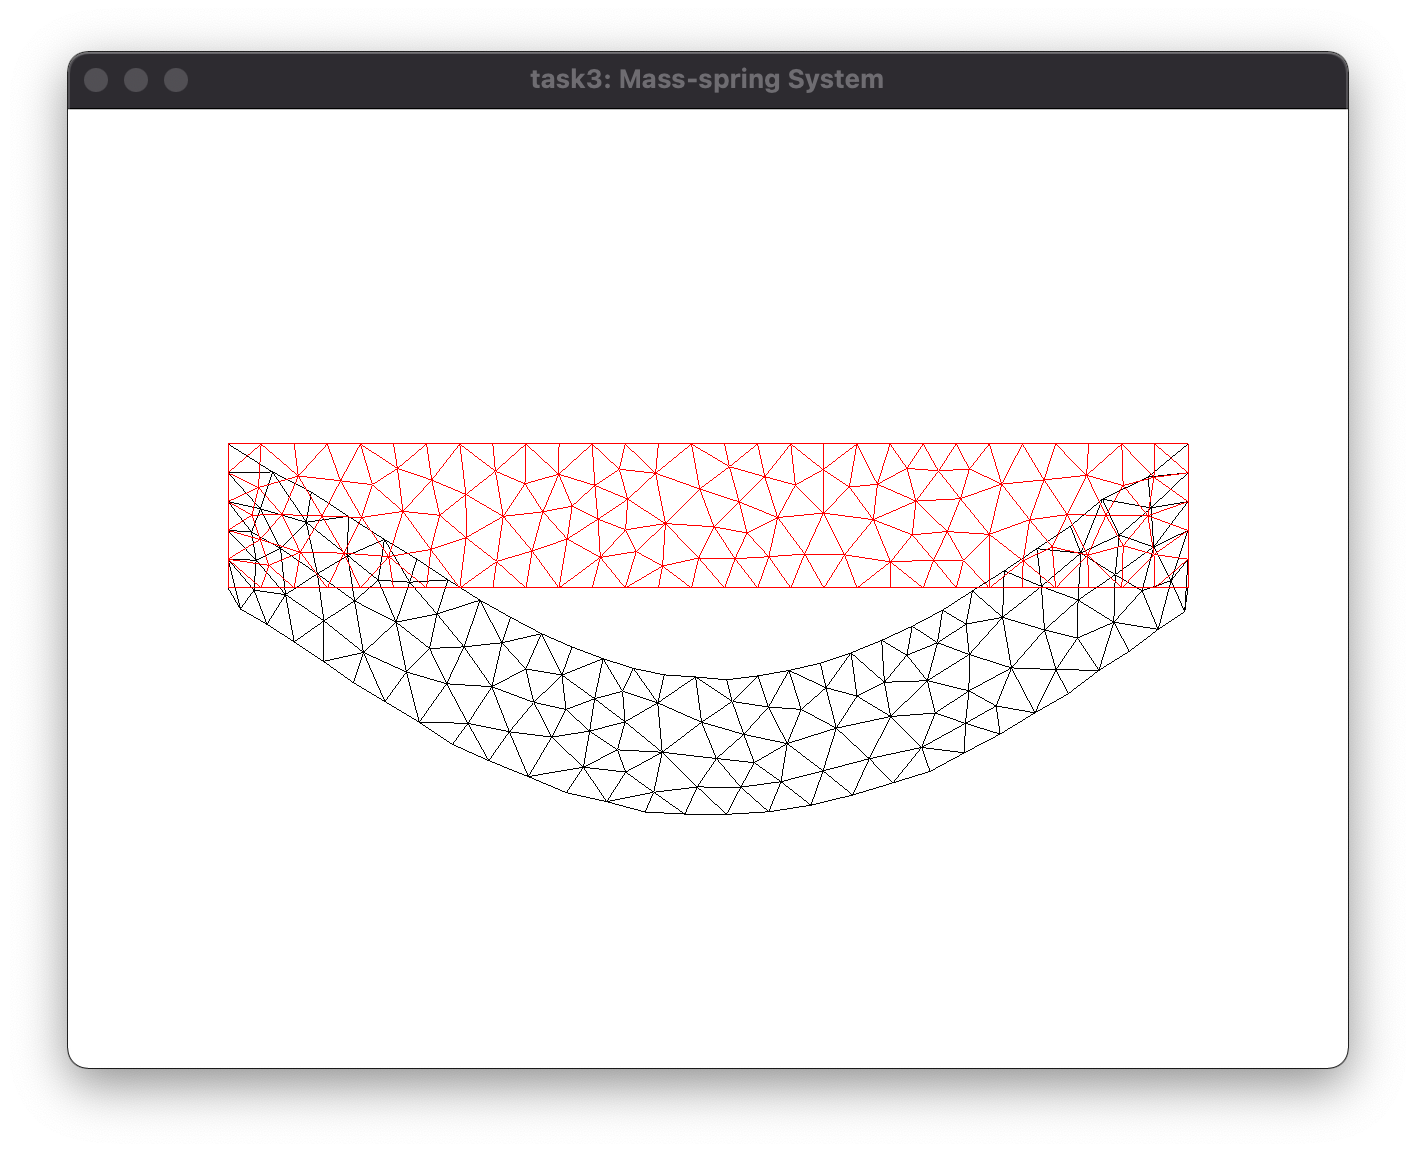
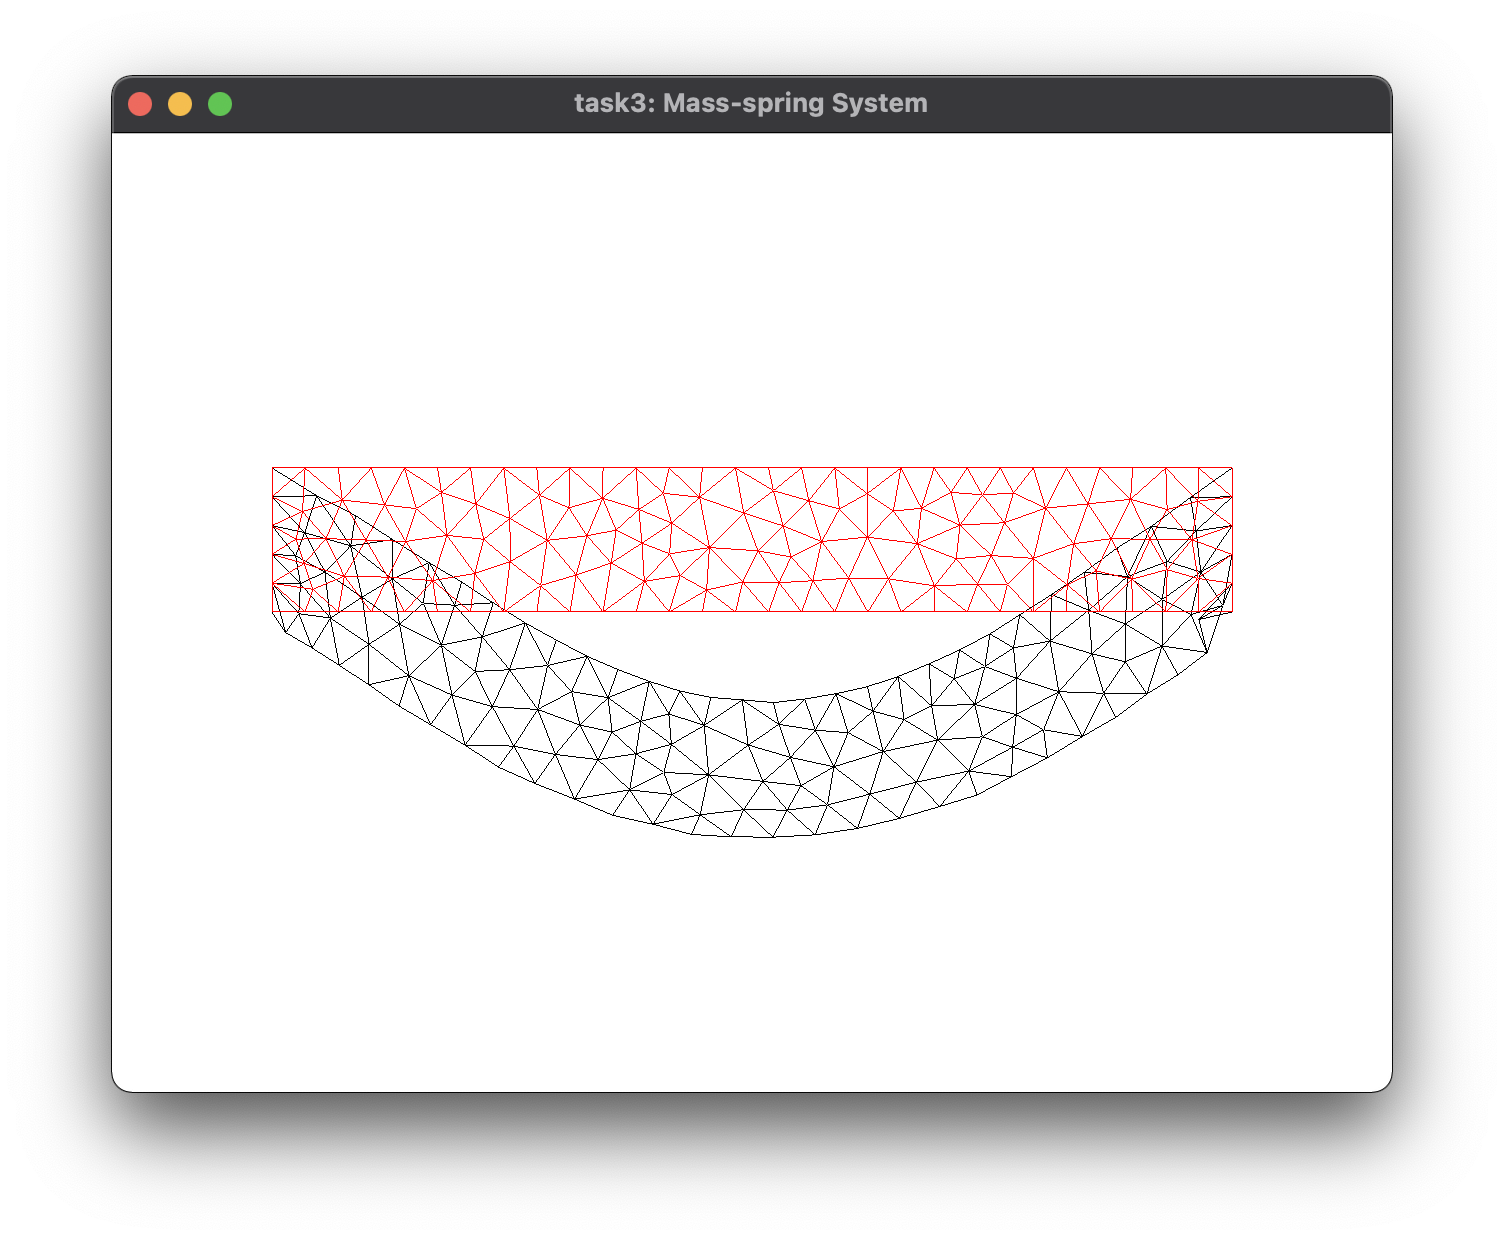
Finally task3 is really finished.

Changed region(s): [[0.0311, 0.0312, 0.9633, 0.9688], [0.1554, 0.375, 0.839, 0.6875]]

diff --git a/task3/main.cpp b/task3/main.cpp
@@ -51,18 +51,81 @@ DFM2_INLINE void WdWddW_Spring2(
       {+u01[0], +u01[1]} };
   double ddC[nnode][nnode][ndim][ndim]; // hessian of C
   std::fill_n(&ddC[0][0][0][0], nnode*nnode*ndim*ndim, 0.0); // currently ddC is zet to zero.
-  for(unsigned int idim=0;idim<ndim;++idim){
-    for(unsigned int jdim=0;jdim<ndim;++jdim) {
+
+  /*
+    The code below computes ddC.
+    Note: ddC[ino][jno][idim][jdim] means differentiation of C w.r.t. p[ino][idim] and then p[jno][jdim]
+    Note2: I am sorry the code is not in the for loop, but I like this style better than using "if-else" in a for-loop.
+  */
+  double a = (1 - u01[0] * u01[0]) / len;
+  double b = u01[0] * u01[1] / len;
+  double c = u01[1] * u01[0] / len;
+  double d = (1 - u01[1] * u01[1]) / len;
+
+  ddC[0][0][0][0] =  a;
+  ddC[0][1][0][0] = -a;
+  ddC[1][0][0][0] = -a;
+  ddC[1][1][0][0] =  a;
+
+  ddC[0][0][0][1] = -b;
+  ddC[0][1][0][1] =  b;
+  ddC[1][0][0][1] =  b;
+  ddC[1][1][0][1] = -b;
+
+  ddC[0][0][1][0] = -c;
+  ddC[0][1][1][0] =  c;
+  ddC[1][0][1][0] =  c;
+  ddC[1][1][1][0] = -c;
+
+  ddC[0][0][1][1] =  d;
+  ddC[0][1][1][1] = -d;
+  ddC[1][0][1][1] = -d;
+  ddC[1][1][1][1] =  d;
+
+  // for(unsigned int idim=0;idim<ndim;++idim){
+  //   for(unsigned int jdim=0;jdim<ndim;++jdim) {
       // write some code below to compute the ddC.
       // ddC[ino][jno][idim][jdim] means differentiation of C w.r.t. p[ino][idim] and then p[jno][jdim]
 
-      ddC[0][0][idim][jdim] = 0; //(1. - u01[0]*u01[0])/len;
-      ddC[0][1][idim][jdim] = u01[1] * u01[0] / len;
-      ddC[1][0][idim][jdim] = -u01[0] * u01[1] / len;
-      ddC[1][1][idim][jdim] = 0; //(1. - u01[1]*u01[1])/len;
-    }
-  }
-  //
+      /*
+        Below, you will find my old solution.
+        I just keep it here for my reference, because it helps me understand my mistake
+        in case I revisit this problem again in the future...
+      */
+      /*
+        Note: Because the spring is a linear system, the second derivative
+        ddC[0,0] and ddC[1,1] must be zero.
+        In fact, only the non-diagonal elements have a second derivative != 0.
+      */
+      // ddC[0][0][idim][jdim] = 0;
+      // ddC[0][1][idim][jdim] = -(u01[0]*ap[0][0] - 1./len); //u01[1] * u01[0] / len;
+      // ddC[1][0][idim][jdim] = -(u01[0]*ap[0][0] + 1./len); //-u01[0] * u01[1] / len;
+      // ddC[1][1][idim][jdim] = 0;
+
+      // double sign = ()? 1 : -1;
+      // ddC[0][0][idim][jdim] = (1-u01[0]*u01[0])/ len;
+      // ddC[0][1][idim][jdim] = u01[1] * u01[0] / len;
+      // ddC[1][0][idim][jdim] = u01[0] * u01[1] / len;
+      // ddC[1][1][idim][jdim] = (1-u01[0]*u01[0])/ len;
+
+      // ddC[0][0][idim][jdim] = 0;
+      // ddC[1][1][idim][jdim] = 0;
+
+      // ddC[0][1][0][0] = -u01[1] * u01[0] / len;
+      // ddC[1][0][0][0] = -u01[0] * u01[1] / len;
+
+      // ddC[0][1][1][0] = u01[1] * u01[0] / len;
+      // ddC[1][0][1][0] = -u01[0] * u01[1] / len;
+
+      // ddC[0][1][0][1] = -u01[1] * u01[0] / len;
+      // ddC[1][0][0][1] = u01[0] * u01[1] / len;
+
+      // ddC[0][1][1][1] = u01[1] * u01[0] / len;
+      // ddC[1][0][1][1] = u01[0] * u01[1] / len;
+  //   }
+  // }
+
+  // Compute W, dW, ddW
   W = 0.5 * stiffness * C * C; // Hooke's law. energy is square of length difference W=1/2*k*C*C
   for(int ino=0; ino < nnode; ++ino){
     for(int idim=0;idim < ndim;++idim){
